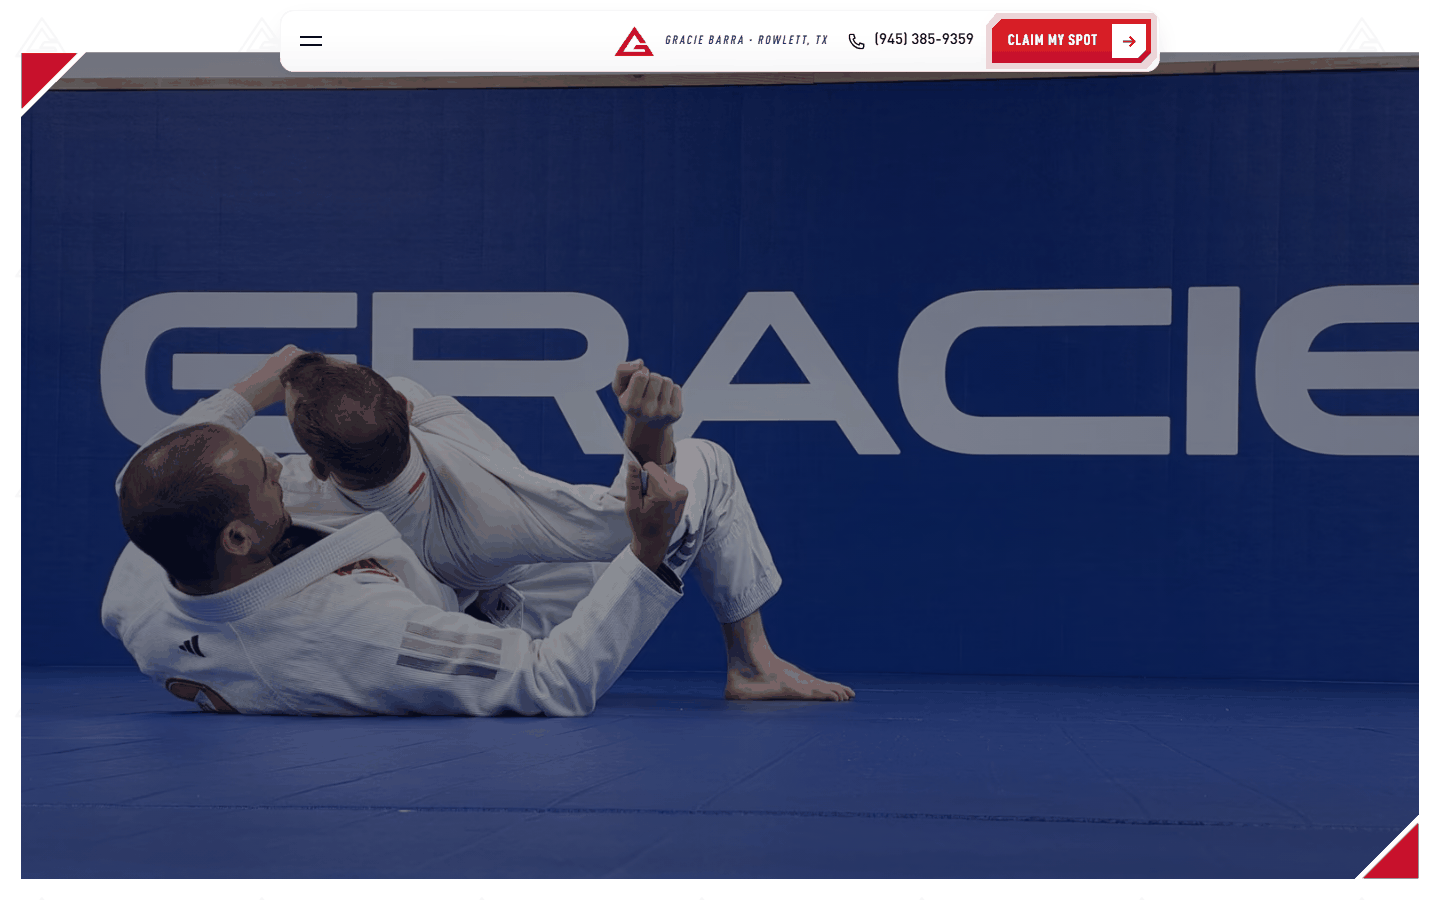
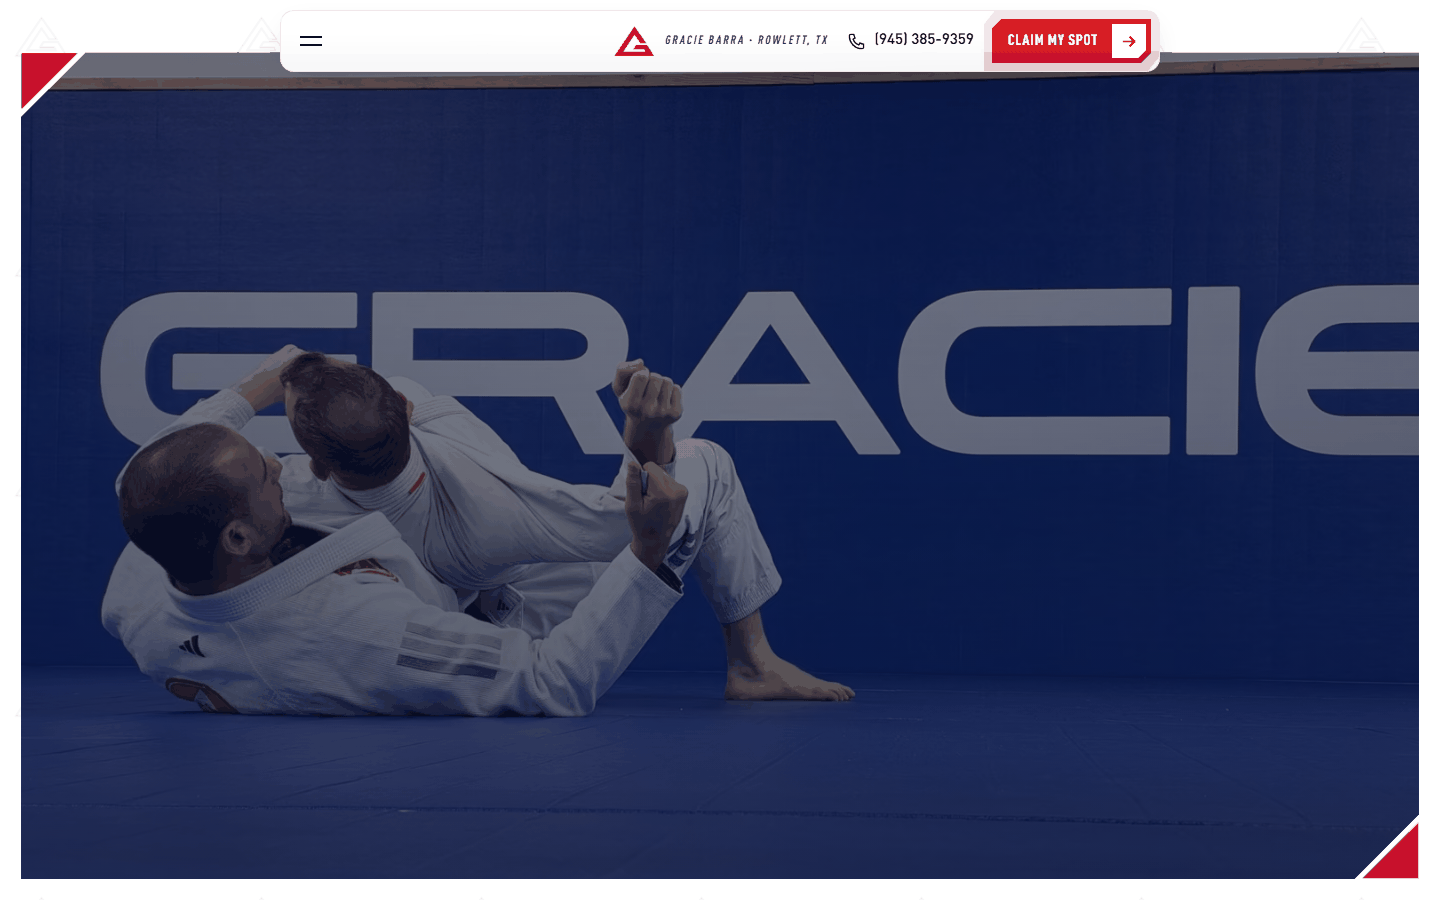
feat(hero): text directly over the film, no white ticket card (Adryan's call)

diff --git a/src/components/sections/Hero.tsx b/src/components/sections/Hero.tsx
@@ -1,14 +1,13 @@
 /* ════════════════════════════════════════════════════════════════════
-   Hero — o ingresso no filme (direção B do design pass, escolhida pelo
-   Adryan em 9 out 2026; gramática da Lindale v2, leitura nova).
+   Hero — o card no filme (gramática da Lindale v2, leitura da Rowlett).
 
    CENA 1 · o card: o poster (ou o b-roll, quando chegar) num card de
    cantos retos sob a nav, com as duas mordidas (triângulo GB, topo-esq.
-   e base-dir.). A copy mora numa PLACA BRANCA com o fio vermelho e o
-   canto mordido — o ingresso de fundador — encostada na base do card:
-   eyebrow, H1 ("never trained." em vermelho com duplicado), lead, a
-   linha da oferta, CTA + micro-itens com ▲. O CARIMBO de vagas restantes
-   (no lugar do selo do Google, que não existe) morde o canto da placa.
+   e base-dir.). O texto vai DIRETO sobre o filme, embaixo à esquerda,
+   sobre o véu marinho: eyebrow, H1 ("never trained." em vermelho vivo com
+   duplicado), lead, a linha da oferta, CTA + micro-itens com ▲; o CARIMBO
+   de vagas restantes à direita (no lugar do selo do Google, que não
+   existe). Decisão do Adryan em 9 out 2026: sem placa/ingresso branco.
    CENA 2 · rolando, o card ABRE até a tela (--k 1 → 0: recuos, mordidas
    e triângulos encolhem juntos), o marinho desce e "No experience /
    needed." entra pelos lados, com o botão apontando para a oferta.
@@ -104,45 +103,45 @@ export function Hero() {
         <span className="hero__bite hero__bite--br" />
       </div>
 
-      {/* CENA 1 · o ingresso na base do card */}
-      <div ref={card} className="hero__scene hero__scene--card">
+      {/* CENA 1 · o texto direto sobre o filme, embaixo à esquerda; o carimbo à direita */}
+      <div ref={card} className="hero__scene hero__scene--card on-dark">
         <div className="shell hero__copy">
-          <div className="hero__ticketwrap">
-            <div className="hero__ticket">
-              <span className="hero__perf" aria-hidden="true" />
-              <Eyebrow className="hero__eb">{hero.eyebrow}</Eyebrow>
-              <Lines as="h1" id="hero-title" onLoad className="d h1 hero__title" parts={hero.title} />
-              <p className="hero__lead rise rise--load" style={{ ['--d' as string]: '300ms' }}>
-                {hero.lead}
-              </p>
-              <p className="hero__offer rise rise--load" style={{ ['--d' as string]: '360ms' }}>
-                <Tri />
-                <span>{hero.offerLine}</span>
-              </p>
-              <div className="hero__act rise rise--load" data-hero-cta="" style={{ ['--d' as string]: '420ms' }}>
-                <Cta origin="hero" size="block">
-                  {hero.cta}
-                </Cta>
-                <ul className="micro hero__micro" aria-label="Good to know">
-                  {micro.map((m) => (
-                    <li key={m.text}>
-                      <Tri />
-                      {m.text}
-                    </li>
-                  ))}
-                  {pricing.chargedToday === null ? (
-                    <li>
-                      <Pending>Charge at pre-registration to confirm</Pending>
-                    </li>
-                  ) : null}
-                </ul>
-              </div>
+          <Eyebrow tone="light" className="hero__eb">
+            {hero.eyebrow}
+          </Eyebrow>
+          <Lines as="h1" id="hero-title" onLoad className="d h1 hero__title" parts={hero.title} />
+          <p className="hero__lead rise rise--load" style={{ ['--d' as string]: '300ms' }}>
+            {hero.lead}
+          </p>
+          <p className="hero__offer rise rise--load" style={{ ['--d' as string]: '360ms' }}>
+            <Tri />
+            <span>{hero.offerLine}</span>
+          </p>
+          <div className="hero__act rise rise--load" data-hero-cta="" style={{ ['--d' as string]: '420ms' }}>
+            <div className="hero__cta">
+              <Cta origin="hero" size="block">
+                {hero.cta}
+              </Cta>
+              <ul className="micro hero__micro" aria-label="Good to know">
+                {micro.map((m) => (
+                  <li key={m.text}>
+                    <Tri />
+                    {m.text}
+                  </li>
+                ))}
+                {pricing.chargedToday === null ? (
+                  <li>
+                    <Pending>Charge at pre-registration to confirm</Pending>
+                  </li>
+                ) : null}
+              </ul>
             </div>
-            {/* o carimbo morde o canto do ingresso */}
-            <div className="hero__stampwrap">
-              <Stamp id="hero" now className="hero__stamp stamp--load" ring={hero.stamp.ring} value={left} label={hero.stamp.label} srText={left !== null ? `${left} ${hero.stamp.sr}` : undefined} />
-              {spotsLeft() === null ? <Pending className="hero__stamp-pending">{offer.claimedPending}</Pending> : null}
-            </div>
+          </div>
+          {/* o carimbo de vagas (no lugar do selo do Google, que não existe): filho da copy,
+              não do bloco animado — transform criaria outro bloco de contenção */}
+          <div className="hero__stampwrap">
+            <Stamp id="hero" now className="hero__stamp stamp--load" ring={hero.stamp.ring} value={left} label={hero.stamp.label} srText={left !== null ? `${left} ${hero.stamp.sr}` : undefined} />
+            {spotsLeft() === null ? <Pending className="hero__stamp-pending">{offer.claimedPending}</Pending> : null}
           </div>
         </div>
       </div>

diff --git a/src/styles/sections.css b/src/styles/sections.css
@@ -264,7 +264,7 @@ html.bk-open .nav {
   --sv: 0px;
   --hp: clamp(28px, calc(var(--u) * 4.4), 84px);
   position: relative;
-  color: var(--ink);
+  color: var(--paper);
   overflow-x: clip;
 }
 @media (max-width: 639px) {
@@ -322,11 +322,14 @@ html.bk-open .nav {
 .hero__video[data-on] {
   opacity: 1;
 }
-/* cena 1: a foto fica limpa (a copy mora na placa); só um véu leve e uniforme */
+/* cena 1: overlay leve e uniforme no filme inteiro + um reforço embaixo,
+   só o necessário para o texto (que mora embaixo, à esquerda) */
 .hero__veil {
   position: absolute;
   inset: 0;
-  background: rgb(var(--navy-rgb) / 0.22);
+  background:
+    linear-gradient(0deg, rgb(var(--navy-rgb) / 0.7) 0%, rgb(var(--navy-rgb) / 0.34) 42%, rgb(var(--navy-rgb) / 0) 68%),
+    rgb(var(--navy-rgb) / 0.34);
   opacity: var(--k);
 }
 /* cena 2: o filme inteiro sob o marinho, para o texto centralizado */
@@ -373,50 +376,36 @@ html.motion .hero__bite {
 .hero__scene--card {
   margin-top: min(-600px, -100lvh);
   align-items: flex-end;
-  padding: calc(var(--nav-h) + var(--bite)) 0 calc(var(--ib) + var(--hp) * 0.6);
+  padding: calc(var(--nav-h) + var(--bite)) 0 calc(var(--ib) + var(--hp));
 }
 .hero__copy {
   position: relative;
-  padding-inline: calc(var(--gutter) * 0.5 + var(--hp) * 0.5);
+  /* a borda do card fica meia margem para fora da grade; o texto entra --hp */
+  padding-inline: calc(var(--gutter) * 0.5 + var(--hp));
   /* recua e some enquanto o card abre (depois do LCP: pode mexer na opacidade) */
   transform: translateY(calc(var(--p) * -80px));
   opacity: clamp(0, 1 - var(--p) * 1.8, 1);
 }
-/* o ingresso: placa branca, fio vermelho no topo, canto mordido; sombra marinho embaixo */
-.hero__ticketwrap {
-  position: relative;
-  max-width: 640px;
-}
-.hero__ticket {
-  position: relative;
-  padding: clamp(22px, calc(var(--u) * 2.4), 40px) clamp(20px, calc(var(--u) * 2.4), 40px) clamp(20px, calc(var(--u) * 2.2), 36px);
-  color: var(--ink);
-  background: var(--paper);
-  box-shadow: 0 30px 60px -30px rgb(var(--navy-rgb) / 0.6), 0 2px 0 rgb(var(--navy-rgb) / 0.08);
-  clip-path: polygon(0 0, calc(100% - 22px) 0, 100% 22px, 100% 100%, 0 100%);
-}
-.hero__perf {
-  position: absolute;
-  left: 0;
-  right: 0;
-  top: 0;
-  height: 4px;
-  background: var(--red);
-}
+/* o texto sobre o filme: branco, embaixo à esquerda; o carimbo à direita, antes da mordida */
 .hero__eb {
-  margin-bottom: 10px;
+  margin-bottom: 14px;
 }
 .hero__title {
-  color: var(--ink);
+  color: var(--paper);
   max-width: 12em;
-  font-size: clamp(2.3rem, min(10.2vw, 7.6svh), 4.6rem);
+}
+.hero__title .ln__accent {
+  color: var(--red-glow);
+}
+.hero__title .ln__accent::after {
+  -webkit-text-stroke-color: var(--red-glow);
 }
 .hero__lead {
-  margin-top: 14px;
-  max-width: 40ch;
-  font-size: clamp(1rem, calc(var(--u) * 1.1), 1.25rem);
-  line-height: 1.4;
-  color: var(--ink-2);
+  margin-top: 16px;
+  max-width: 36ch;
+  font-size: clamp(1.0625rem, calc(var(--u) * 1.3), 1.5rem);
+  line-height: 1.35;
+  color: rgb(var(--paper-rgb) / 0.92);
   text-wrap: pretty;
 }
 .hero__offer {
@@ -430,51 +419,47 @@ html.motion .hero__bite {
   font-size: clamp(1.0625rem, calc(var(--u) * 1.25), 1.375rem);
   letter-spacing: 0.02em;
   text-transform: uppercase;
-  color: var(--ink);
+  color: var(--paper);
 }
 .hero__offer svg {
   width: 12px;
   height: 12px;
   flex: none;
   margin-top: 0.22em;
-  color: var(--red);
+  color: var(--red-glow);
 }
 .hero__act {
   display: grid;
-  gap: 12px;
-  margin-top: 20px;
+  gap: 18px;
+  margin-top: 22px;
 }
 .hero__micro {
-  color: var(--ink-2);
+  margin-top: 12px;
+  color: rgb(var(--paper-rgb) / 0.84);
 }
-.hero__micro svg {
-  color: var(--red);
-}
-/* o carimbo de vagas morde o canto do ingresso */
 .hero__stampwrap {
   position: absolute;
-  right: -84px;
-  top: -40px;
+  right: calc(var(--gutter) * 0.5 + var(--bite) * 0.9);
+  bottom: 0;
   display: grid;
-  justify-items: start;
+  justify-items: end;
   gap: 6px;
 }
 .hero__stamp {
   --size: clamp(96px, calc(var(--u) * 9), 150px);
 }
 .hero__stamp-pending {
-  max-width: 150px;
+  max-width: 180px;
 }
 @media (max-width: 639px) {
   .hero__copy {
-    padding-inline: var(--ix);
+    padding-inline: calc(var(--ix) + var(--hp));
   }
-  .hero__ticket {
-    padding: 18px 16px 16px;
-  }
+  /* o carimbo flutua acima da copy, à direita (nunca sobre os micro-itens) */
   .hero__stampwrap {
-    right: 4px;
-    top: -44px;
+    right: var(--ix);
+    bottom: auto;
+    top: calc(-1 * var(--size, 84px) - 24px);
   }
   .hero__stamp {
     --size: 84px;
@@ -539,19 +524,19 @@ html:not(.motion) .hero__deep {
   opacity: 0.6;
 }
 @media (min-width: 1024px) {
-  .hero__ticketwrap {
-    max-width: 760px;
-  }
   .hero__title {
-    font-size: clamp(2.8rem, min(calc(var(--u) * 4.2), 8.6svh), 5.2rem);
-    max-width: 11em;
+    max-width: 12em;
+    font-size: clamp(3.4rem, min(calc(var(--u) * 5.6), 10.5svh), 7.2rem);
+  }
+  .hero__lead {
+    max-width: 44ch;
   }
   .hero__act {
     display: flex;
     flex-wrap: wrap;
-    align-items: center;
-    gap: 14px 28px;
-    margin-top: 24px;
+    align-items: flex-start;
+    gap: 20px 40px;
+    margin-top: 28px;
   }
   .hero__need {
     width: min(100%, calc(var(--u) * 44), 800px);

diff --git a/public/memory/design-decisions.md b/public/memory/design-decisions.md
@@ -78,7 +78,7 @@ Três direções dentro da gramática GB (card no filme, mordidas triangulares, 
 | **b** | **O ingresso** | a copy vive numa placa branca com fio vermelho e canto mordido, encostada na base do card; a foto fica limpa; o carimbo morde o canto da placa | tinta sobre branco (contraste máximo), liga o hero ao objeto da oferta (o ingresso), funciona com qualquer foto | a placa esconde parte do filme; no celular a foto fica em ~35% da tela |
 | **c** | **O placar** | coluna branca à esquerda com o título em tinta e um placar de 3 colunas ($87 / $0 / $107 + $47); o card com a foto à direita; no celular o card vai para cima (46svh) e a copy embaixo | a oferta já está na primeira tela como placar; leitura mais "equipe atlética" | o card estreito corta a foto (precisa de corte próprio ou b-roll); no celular o CTA cai abaixo da dobra |
 
-**Escolha do Adryan (9 out 2026): B · o ingresso.** A e C saíram do código. O que fica da B: a foto limpa (véu uniforme a 22%, sem degradê), a placa branca com fio vermelho e canto mordido, o título em tinta, o carimbo mordendo o canto da placa. A cena 2 (o card abrindo até a tela, "No experience / needed." entrando pelos lados) é a mesma.
+**Escolha do Adryan (9 out 2026): B · o ingresso** — depois revista: a placa branca lia como card, não como ingresso, e a versão com cabeça vermelha, picote e talão ficou pesada no celular. **Decisão final do Adryan: texto direto sobre a foto, sem card branco** (a direção A, com o véu marinho em degradê, o título branco e 'never trained.' em red-glow, o carimbo à direita). A cena 2 (o card abrindo até a tela, 'No experience / needed.' entrando pelos lados) é a mesma.
 
 ## 5. Paleta, tipo, movimento
 
